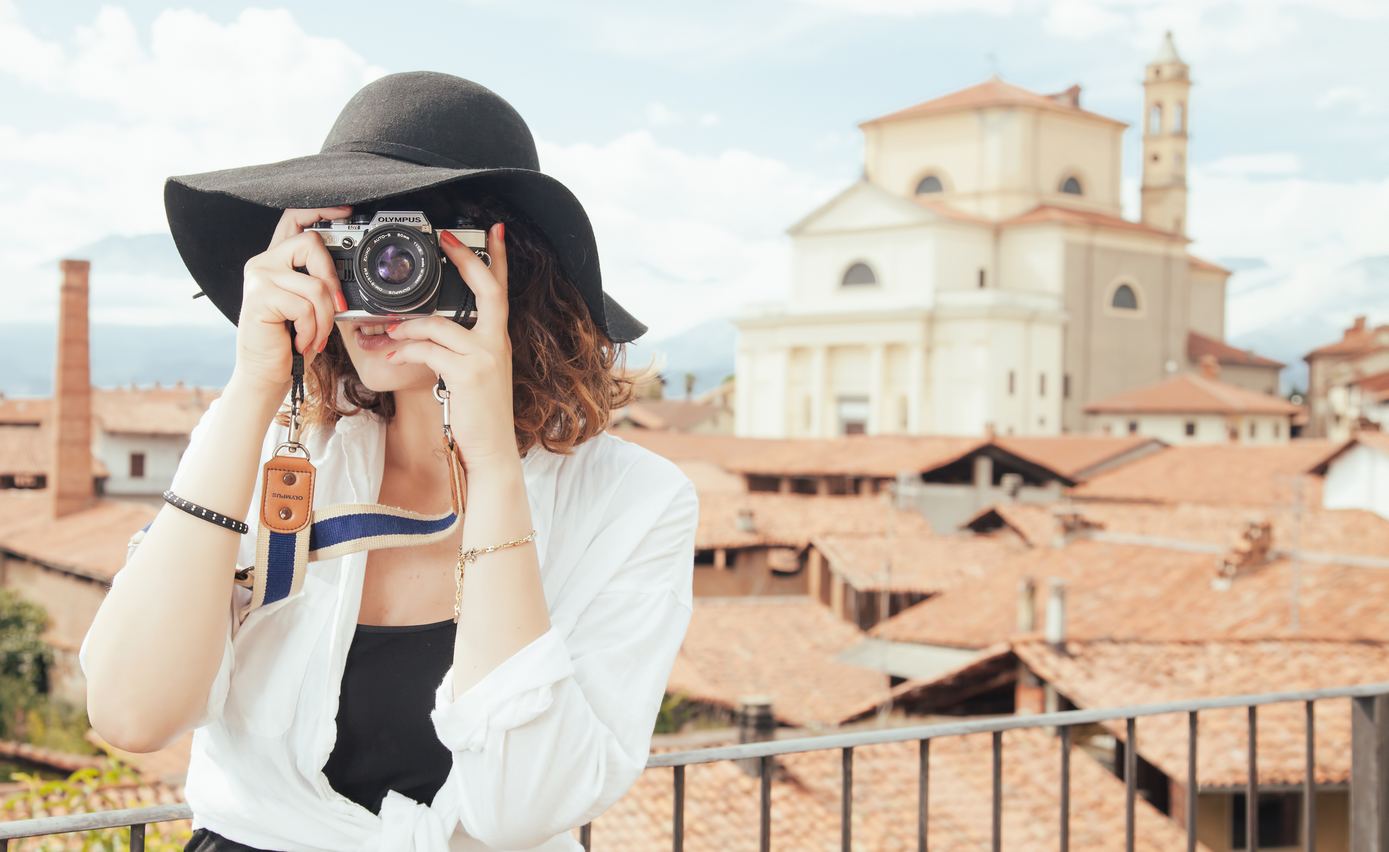
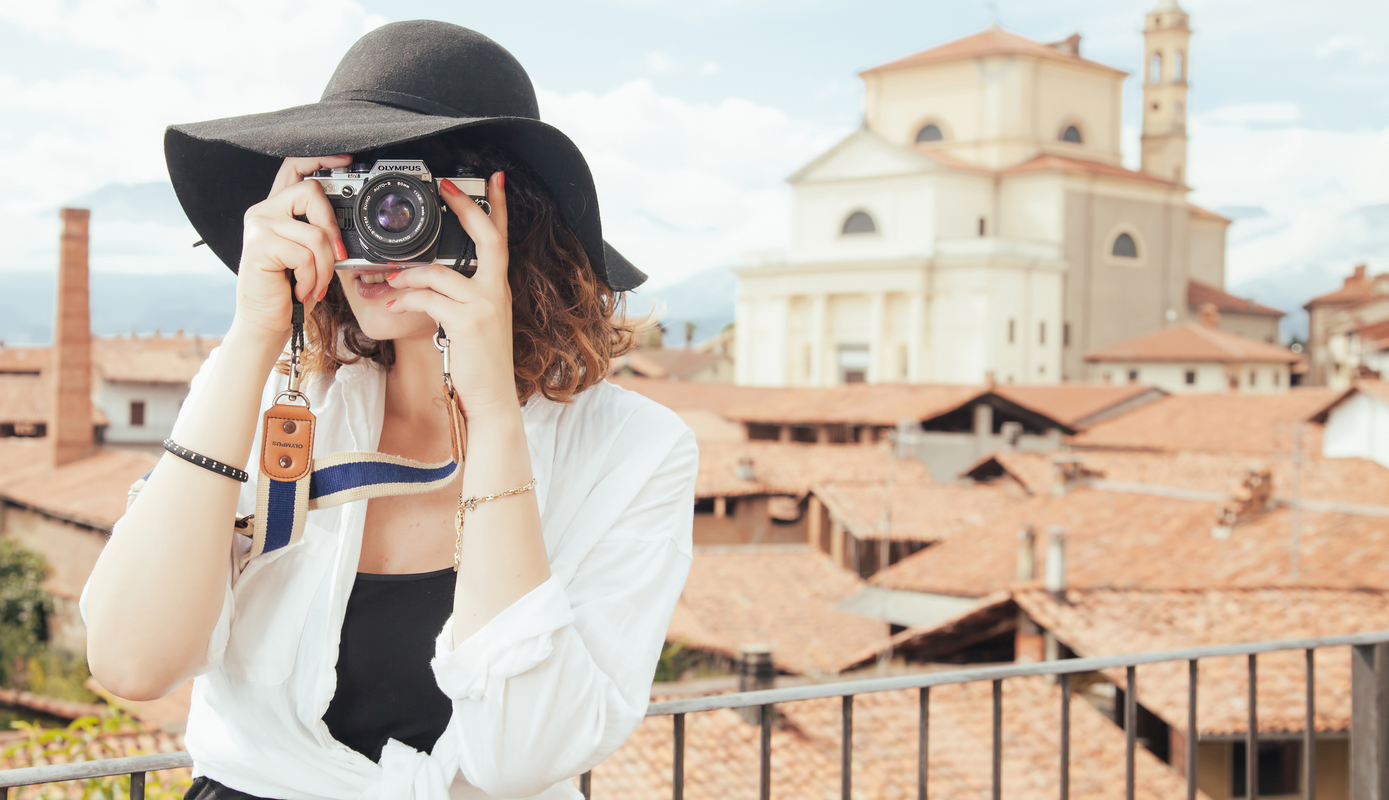
rc edits

diff --git a/photography/index.html b/photography/index.html
@@ -5,19 +5,19 @@
 	<meta charset="utf-8">
 	<meta name="viewport" content="width=device-width, initial-scale=1.0">
 	<link rel="stylesheet" media="screen" href="https://cdnjs.cloudflare.com/ajax/libs/twitter-bootstrap/3.3.5/css/bootstrap.min.css">
-	<link href="https://fonts.googleapis.com/css?family=Dancing+Script|Roboto|Satisfy|Yanone+Kaffeesatz|Playball" rel="stylesheet">
+	<link href="https://fonts.googleapis.com/css?family=Dancing+Script|Open+Sans|Mate+SC|Source+Serif+Pro" rel="stylesheet">
 <link rel="stylesheet" href="https://maxcdn.bootstrapcdn.com/font-awesome/4.7.0/css/font-awesome.min.css">
-	<title>Minimum Bootstrap HTML Skeleton</title>
+	<title>Sayma's Front Page Demo</title>
 
 	<!--  -->
 
 	<style>
         body{
-            background: url('img2272a.jpg') no-repeat center center fixed; 
+            background: url('img2272a.jpg') no-repeat center top fixed; 
             background-size: cover;
-            color: #111;
+            color: white;
             text-align: center;
-            font-family: roboto;
+            font-family:  'Open Sans', sans-serif;
         }
         
         .container1{
@@ -26,48 +26,53 @@
             left: 70%;
             transform: translate(-50%, -50%);
             width: 500px;
-            background: rgba(255,255,255, .4);
-            padding: 10px 25px 30px;
+            background: rgba(255, 228, 225, .3);
+            padding: 5px 25px 15px;
             border-radius: 15px;
             
         }
         
         
         
-        input[type="text"], textarea {
-            background: rgba(255,255,255,.3) !important;
-            outline: none;
-            box-shadow: 0;
-            border: 1px solid white !important;
+        input[type="text"], 
+        textarea {
+            background: rgba(255, 228, 225, .3)  !important;
+            outline: 0 none  !important;
+            box-shadow: none ;
+            border: 1px solid white;
             padding: 20px 15px !important;
             font-size: 18px !important;
+            font-weight: bold;
         }
         
         input[type="text"]:focus,
         textarea:focus{
             background: rgba(255,255,255,.9) !important;
-            border-color: rgba(240, 21, 131, 0.8) !important;
+            border-color: rgba(255, 0, 128, 0.8) !important;
             box-shadow: none;
             outline: 0 none !important;
         }
         
         .lead1{
-            color: #24170b;
+            color: #000;
             text-align: center;
             font-size: 20px;
             margin-bottom: 15px;
         }
         
         h1{
-            font-family: 'Playball', 'Dancing Script';
+            font-family: 'Dancing Script';
             font-weight: bold;
             font-size: 55px;
-            color: #f01583;
+            color: #ff0080;
         }
         
         h2{
-            color: #9b4b03;
-            font-family: 'Yanone Kaffeesatz';
+            
+            font-size: 35px;
+            font-weight: bold;
+            font-family: 'Mate SC';
+            color: #815454;
         }
         
         span{
@@ -78,82 +83,117 @@
         #name_2::-webkit-input-placeholder,
         #textarea_2::-webkit-input-placeholder
         {
-          color:    #111;
+          color:    #342b1a !important;
         }
 
         #name_2:-moz-placeholder,
         #textarea_2:-moz-placeholder 
         {
-          color:    #FF0000;
+          color:    #342b1a !important;
         }
 
         #name_2::-moz-placeholder,
         #textarea_2::-moz-placeholder 
         {
-          color:    #FF0000;
+          color:    #342b1a !important;
         }
 
         #name_2:-ms-input-placeholder,
         #textarea_2:-ms-input-placeholder 
         {
-          color:    #FF0000;
+          color:    #342b1a !important;
         }
 
+        .form-control::-moz-placeholder{
+            color:    #342b1a;
+        }
 
         #btn {
-            background: #f01583;
+            background: #ff146e;
             color: white;
             border: none;
-            font-size: 18px;
+            font-size: 20px;
             border-radius: 8px;
-            padding: 8px 25px;
+            padding: 8px 35px;
+            width:100%;
+            box-shadow: none;
+            outline-color: aliceblue;
+            letter-spacing: 1px;
+            font-family: 'Mate SC'
         }
         
         #btn:hover {
-            background: #ff198d;
+            background:  #ff0080;
             transition: .2s ease-in;
         }
         
+    
+        .social-icons.icon-rotate .fa:hover, .social-icons.icon-rotate .fa:active { 
+            -webkit-transform: scale(1.1) rotate(360deg);
+            -moz-transform: scale(1.1) rotate(360deg);
+            -ms-transform: scale(1.1) rotate(360deg);
+            -o-transform: scale(1.1) rotate(360deg);
+            transform: scale(1.1) rotate(360deg);
+        }
+        
+        .social-icons .fa {
+            width: 45px;
+            height: 45px;
+            line-height: 45px;
+            text-align: center;
+            color: #FFF;
+            color: rgba(255, 255, 255, 0.8);
+            -webkit-transition: all 0.3s ease-in-out;
+            -moz-transition: all 0.3s ease-in-out;
+            -ms-transition: all 0.3s ease-in-out;
+            -o-transition: all 0.3s ease-in-out;
+            transition: all 0.3s ease-in-out;
+            border-radius: 50%;
+            margin-top:23px;
+            font-size: 20px;
+            
+        }
+        
+        .social-icons .fa:hover, .social-icons .fa:active {
+            color: #FFF;
+        }
+        
+        .social-icons .fa-facebook,.social-icons .fa-facebook-square{background-color:#3C599F;}  
+        .social-icons .fa-instagram{background-color:#405de6;}
+        .social-icons .fa-twitter,.social-icons .fa-twitter-square{background-color:#32CCFE;} 
+        
         @media (max-width:1023px){
             
+            body{
+                background-position: left center;
+            }
             
             .container1 {
-                left: 50%;
+                left:50%;
+                transform: translateY(-50%), translateX(none);
+                margin: 0 auto;
+                width: 90%;
+                background: rgba(255, 228, 225, 0.5)
             
             }
             
-            h1 {
-                font-size: 35px;
-            }
             
-            h2 {
-                font-size: 25px;
-            }
-            
-            .lead1 {
-                font-size: 18px
-            }
-            
-            input[type="text"], textarea {
-           
-                font-size: 16px !important;
-            }
-            
-            #btn {
-                font-size: 16px;
-                
-            }
         }
         
         @media (max-width:767px){
             
-            .container1{
-               transform: none;
-                position: static;
-                margin: 10px auto;
-                background: rgba(255,255,255, .5);
-                margin-bottom: 10px;
+            
+            body{
+                background-position: center center;
             }
+            
+            .container1{
+                position: static;
+                transform: none;
+                margin: 40px auto 20px;
+                
+            }
+            
             h1 {
                 font-size: 35px;
             }
@@ -181,39 +221,52 @@
                 
             }
         }
+       
         
-        @media (max-width:639px){
+        @media (max-width:480px) and (orientation:portrait){
             
+            body{
+                background-position: left center;
+                display: flex;
+                height: 100vh;
+                align-items: center;
+            }
+            
+            .container1{
+                margin: auto; 
+                padding: 3px 20px 10px;
+            }
             
             h1 {
-                font-size: 25px;
+                font-size: 42px;
             }
             
             h2 {
-                font-size: 22px;
+                font-size: 27px;
             }
             
             .lead1{
-                font-size: 14px
+                font-size: 20px
             }
             
             input[type="text"], textarea {
            
-                font-size: 14px !important;
+                font-size: 20 !important;
             }
             
             
             #btn {
-                font-size: 14px;
+                font-size: 20;
                 
             }
         }
         
-        @media (max-width:480px) and (orientation:portrait){
+         
+        @media (max-width:359px){
             
             
             h1 {
-                font-size: 25px;
+                font-size: 30px;
             }
             
             h2 {
@@ -256,10 +309,21 @@
                 <input class="form-control" id="name_2" placeholder="Name" type="text"> <br>
                 <input class="form-control" id="name_2" placeholder="Email Address" type="text"> <br>
                 <textarea class="form-control" id="textarea_2" placeholder="Message"  rows="3"></textarea> <br>
-                <input type="submit" value="SEND" id="btn">
+                <input type="submit" id="btn" value="SUBMIT">
+               
             </form>
+            
+            <ul class="social-icons icon-circle icon-rotate list-unstyled list-inline"> 
+              <li><a href="#"><i class="fa fa-twitter"></i></a> </li> 
+              <li><a href="#"><i class="fa fa-instagram"></i></a> 
+              </li>   
+              <li> <a href="#"><i class="fa fa-facebook"></i></a>
+              </li>
+                
+            </ul>
         </div>
-	<script src="https://cdnjs.cloudflare.com/ajax/libs/jquery/1.11.3/jquery.min.js"></script>
+        
+	<script fa-stack-1xsrc="https://cdnjs.cloudflare.com/ajax/libs/jquery/1.11.3/jquery.min.js"></script>
 	<script src="https://cdnjs.cloudflare.com/ajax/libs/twitter-bootstrap/3.3.5/js/bootstrap.min.js"></script>
 
 	<script>
